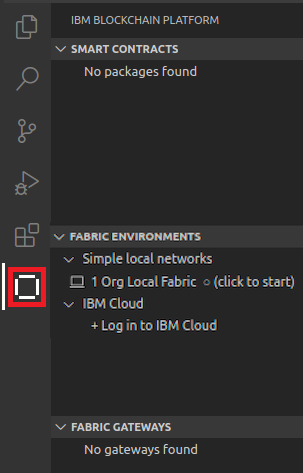
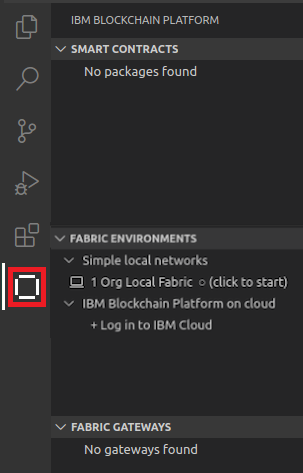
update ibm cloud group name and behaviour

Changed region(s): [[0.1782, 0.4736, 0.9802, 0.7104], [0.2079, 0.6216, 0.2376, 0.6512]]

diff --git a/packages/blockchain-extension/test/explorer/environmentExplorer.test.ts b/packages/blockchain-extension/test/explorer/environmentExplorer.test.ts
@@ -107,8 +107,8 @@ describe('environmentExplorer', () => {
                 allChildren[0].label.should.equal('Simple local networks');
                 allChildren[0].tooltip.should.equal('Simple local networks');
                 allChildren[0].contextValue.should.equal('blockchain-environment-group-item');
-                allChildren[1].label.should.equal('IBM Cloud');
-                allChildren[1].tooltip.should.equal('IBM Cloud');
+                allChildren[1].label.should.equal('IBM Blockchain Platform on cloud');
+                allChildren[1].tooltip.should.equal('IBM Blockchain Platform on cloud');
                 allChildren[1].contextValue.should.equal('blockchain-environment-group-item');
 
                 const localEnvItems: BlockchainTreeItem[] = await blockchainRuntimeExplorerProvider.getChildren(allChildren[0]);
@@ -149,8 +149,8 @@ describe('environmentExplorer', () => {
                 const allChildren: BlockchainTreeItem[] = await blockchainRuntimeExplorerProvider.getChildren();
 
                 allChildren.length.should.equal(1);
-                allChildren[0].label.should.equal('IBM Cloud');
-                allChildren[0].tooltip.should.equal('IBM Cloud');
+                allChildren[0].label.should.equal('IBM Blockchain Platform on cloud');
+                allChildren[0].tooltip.should.equal('IBM Blockchain Platform on cloud');
                 allChildren[0].contextValue.should.equal('blockchain-environment-group-item');
 
                 const ibmCloudItems: Array<BlockchainTreeItem> = await blockchainRuntimeExplorerProvider.getChildren(allChildren[0]);
@@ -191,14 +191,23 @@ describe('environmentExplorer', () => {
                 const allChildren: BlockchainTreeItem[] = await blockchainRuntimeExplorerProvider.getChildren();
 
                 allChildren.length.should.equal(2);
-                allChildren[0].label.should.equal('Other networks');
-                allChildren[0].tooltip.should.equal('Other networks');
+                allChildren[0].label.should.equal('IBM Blockchain Platform on cloud');
+                allChildren[0].tooltip.should.equal('IBM Blockchain Platform on cloud');
                 allChildren[0].contextValue.should.equal('blockchain-environment-group-item');
-                allChildren[1].label.should.equal('IBM Cloud');
-                allChildren[1].tooltip.should.equal('IBM Cloud');
+                allChildren[1].label.should.equal('Other networks');
+                allChildren[1].tooltip.should.equal('Other networks');
                 allChildren[1].contextValue.should.equal('blockchain-environment-group-item');
 
-                const otherItems: Array<BlockchainTreeItem> = await blockchainRuntimeExplorerProvider.getChildren(allChildren[0]);
+                const ibmCloudItems: BlockchainTreeItem[] = await blockchainRuntimeExplorerProvider.getChildren(allChildren[0]);
+                ibmCloudItems.length.should.equal(1);
+                ibmCloudItems[0].label.should.equal(`+ Log in to IBM Cloud`);
+                ibmCloudItems[0].command.should.deep.equal({
+                    command: ExtensionCommands.LOG_IN_AND_DISCOVER,
+                    title: '',
+                    arguments: []
+                });
+
+                const otherItems: Array<BlockchainTreeItem> = await blockchainRuntimeExplorerProvider.getChildren(allChildren[1]);
                 otherItems.length.should.equal(3);
                 otherItems[0].label.should.equal(`${managedAnsible.name}  ○ (click to start)`);
                 otherItems[0].tooltip.should.equal(`Creates a local development runtime using Hyperledger Fabric Docker images`);
@@ -209,15 +218,6 @@ describe('environmentExplorer', () => {
                 otherItems[2].label.should.equal(otherEnvTwo.name);
                 otherItems[2].tooltip.should.equal(otherEnvTwo.name);
                 otherItems[2].contextValue.should.equal('blockchain-environment-item');
-
-                const ibmCloudItems: BlockchainTreeItem[] = await blockchainRuntimeExplorerProvider.getChildren(allChildren[1]);
-                ibmCloudItems.length.should.equal(1);
-                ibmCloudItems[0].label.should.equal(`+ Log in to IBM Cloud`);
-                ibmCloudItems[0].command.should.deep.equal({
-                    command: ExtensionCommands.LOG_IN_AND_DISCOVER,
-                    title: '',
-                    arguments: []
-                });
 
                 loggedInStub.should.have.been.calledTwice;
                 anyResourcesStub.should.not.have.been.called;
@@ -276,8 +276,8 @@ describe('environmentExplorer', () => {
                 allChildren[0].label.should.equal('Simple local networks');
                 allChildren[0].tooltip.should.equal('Simple local networks');
                 allChildren[0].contextValue.should.equal('blockchain-environment-group-item');
-                allChildren[1].label.should.equal('IBM Cloud');
-                allChildren[1].tooltip.should.equal('IBM Cloud');
+                allChildren[1].label.should.equal('IBM Blockchain Platform on cloud');
+                allChildren[1].tooltip.should.equal('IBM Blockchain Platform on cloud');
                 allChildren[1].contextValue.should.equal('blockchain-environment-group-item');
                 allChildren[2].label.should.equal('Other networks');
                 allChildren[2].tooltip.should.equal('Other networks');
@@ -370,7 +370,7 @@ describe('environmentExplorer', () => {
                     arguments: []
                 });
 
-                allChildren[1].label.should.equal('IBM Cloud');
+                allChildren[1].label.should.equal('IBM Blockchain Platform on cloud');
                 const ibmCloudItems: BlockchainTreeItem[] = await blockchainRuntimeExplorerProvider.getChildren(allChildren[1]);
                 ibmCloudItems.length.should.equal(1);
                 ibmCloudItems[0].label.should.equal(`+ Log in to IBM Cloud`);
@@ -401,7 +401,7 @@ describe('environmentExplorer', () => {
                     arguments: []
                 });
 
-                allChildren[1].label.should.equal('IBM Cloud');
+                allChildren[1].label.should.equal('IBM Blockchain Platform on cloud');
                 const ibmCloudItems: BlockchainTreeItem[] = await blockchainRuntimeExplorerProvider.getChildren(allChildren[1]);
                 ibmCloudItems.length.should.equal(1);
                 ibmCloudItems[0].label.should.equal(`+ create new instance`);
@@ -412,6 +412,38 @@ describe('environmentExplorer', () => {
                 });
                 loggedInStub.should.have.been.calledTwice;
                 anyResourcesStub.should.have.been.calledTwice;
+            });
+
+            it('should show log in item if there are ops tools environments but no saas environments', async () => {
+                const opsToolsEnv: FabricEnvironmentRegistryEntry = new FabricEnvironmentRegistryEntry();
+                opsToolsEnv.name = 'opsToolsEnv';
+                opsToolsEnv.environmentType = EnvironmentType.OPS_TOOLS_ENVIRONMENT;
+
+                await FabricEnvironmentRegistry.instance().clear();
+                await FabricEnvironmentRegistry.instance().add(opsToolsEnv);
+
+                const loggedInStub: sinon.SinonStub = mySandBox.stub(ExtensionsInteractionUtil, 'cloudAccountIsLoggedIn').resolves(false);
+                const anyResourcesStub: sinon.SinonStub = mySandBox.stub(ExtensionsInteractionUtil, 'cloudAccountAnyIbpResources').resolves(false);
+
+                const blockchainRuntimeExplorerProvider: BlockchainEnvironmentExplorerProvider = ExtensionUtil.getBlockchainEnvironmentExplorerProvider();
+                const allChildren: BlockchainTreeItem[] = await blockchainRuntimeExplorerProvider.getChildren();
+
+                allChildren.length.should.equal(1);
+                allChildren[0].label.should.equal('IBM Blockchain Platform on cloud');
+                const ibmCloudItems: BlockchainTreeItem[] = await blockchainRuntimeExplorerProvider.getChildren(allChildren[0]);
+                ibmCloudItems.length.should.equal(2);
+                ibmCloudItems[0].label.should.equal(`+ Log in to IBM Cloud`);
+                ibmCloudItems[0].command.should.deep.equal({
+                    command: ExtensionCommands.LOG_IN_AND_DISCOVER,
+                    title: '',
+                    arguments: []
+                });
+                ibmCloudItems[1].label.should.equal(opsToolsEnv.name);
+                ibmCloudItems[1].tooltip.should.equal(opsToolsEnv.name);
+                ibmCloudItems[1].contextValue.should.equal('blockchain-environment-item');
+
+                loggedInStub.should.have.been.calledOnce;
+                anyResourcesStub.should.not.have.been.called;
             });
 
             it(`should try to automatically add discovered IBP instances`, async () => {
@@ -441,7 +473,6 @@ describe('environmentExplorer', () => {
 
             it(`should try to automatically add discovered IBP instances when other environments have already been added`, async () => {
                 await vscode.workspace.getConfiguration().update(SettingConfigurations.DISCOVER_SAAS_ENVS, true, vscode.ConfigurationTarget.Global);
-                await FabricEnvironmentRegistry.instance().clear();
 
                 const registryEntry: FabricEnvironmentRegistryEntry = new FabricEnvironmentRegistryEntry();
                 registryEntry.name = 'myFabric';
@@ -457,17 +488,40 @@ describe('environmentExplorer', () => {
                 const allChildren: BlockchainTreeItem[] = await blockchainRuntimeExplorerProvider.getChildren();
 
                 allChildren.length.should.equal(1);
-                allChildren[0].label.should.equal(`Other networks`);
-                allChildren[0].tooltip.should.equal('Other networks');
-                allChildren[0].contextValue.should.equal('blockchain-environment-group-item');
+                const otherGroupItem: EnvironmentGroupTreeItem = allChildren[0] as EnvironmentGroupTreeItem;
+                otherGroupItem.label.should.equal('Other networks');
+                otherGroupItem.environments.should.deep.equal([registryEntry]);
 
-                const groupChildren: BlockchainTreeItem[] = await blockchainRuntimeExplorerProvider.getChildren(allChildren[0]);
-                groupChildren[0].label.should.equal(registryEntry.name);
-                groupChildren[0].tooltip.should.equal(registryEntry.name);
-                groupChildren[0].contextValue.should.equal('blockchain-environment-item');
-
+                await blockchainRuntimeExplorerProvider.getChildren(otherGroupItem);
                 executeCommandStub.should.have.been.calledWith(ExtensionCommands.LOG_IN_AND_DISCOVER);
+                loggedInStub.should.have.been.calledOnce;
+                anyResourcesStub.should.have.been.calledOnce;
+            });
 
+            it('should try to automatically add discovered IBP instances when there are ops tools environments but no saas environments', async () => {
+                await vscode.workspace.getConfiguration().update(SettingConfigurations.DISCOVER_SAAS_ENVS, true, vscode.ConfigurationTarget.Global);
+
+                const opsToolsEnv: FabricEnvironmentRegistryEntry = new FabricEnvironmentRegistryEntry();
+                opsToolsEnv.name = 'opsToolsEnv';
+                opsToolsEnv.environmentType = EnvironmentType.OPS_TOOLS_ENVIRONMENT;
+
+                await FabricEnvironmentRegistry.instance().clear();
+                await FabricEnvironmentRegistry.instance().add(opsToolsEnv);
+
+                executeCommandStub.withArgs(ExtensionCommands.LOG_IN_AND_DISCOVER).resolves();
+                const loggedInStub: sinon.SinonStub = mySandBox.stub(ExtensionsInteractionUtil, 'cloudAccountIsLoggedIn').resolves(true);
+                const anyResourcesStub: sinon.SinonStub = mySandBox.stub(ExtensionsInteractionUtil, 'cloudAccountAnyIbpResources').resolves(true);
+
+                const blockchainRuntimeExplorerProvider: BlockchainEnvironmentExplorerProvider = ExtensionUtil.getBlockchainEnvironmentExplorerProvider();
+                const allChildren: BlockchainTreeItem[] = await blockchainRuntimeExplorerProvider.getChildren();
+
+                allChildren.length.should.equal(1);
+                const cloudGroupItem: EnvironmentGroupTreeItem = allChildren[0] as EnvironmentGroupTreeItem;
+                cloudGroupItem.label.should.equal('IBM Blockchain Platform on cloud');
+                cloudGroupItem.environments.should.deep.equal([opsToolsEnv]);
+
+                await blockchainRuntimeExplorerProvider.getChildren(cloudGroupItem);
+                executeCommandStub.should.have.been.calledWith(ExtensionCommands.LOG_IN_AND_DISCOVER);
                 loggedInStub.should.have.been.calledOnce;
                 anyResourcesStub.should.have.been.calledOnce;
             });

diff --git a/packages/blockchain-extension/extension/explorer/environmentExplorer.ts b/packages/blockchain-extension/extension/explorer/environmentExplorer.ts
@@ -221,14 +221,14 @@ export class BlockchainEnvironmentExplorerProvider implements BlockchainExplorer
         const environmentEntries: FabricEnvironmentRegistryEntry[] = await FabricEnvironmentRegistry.instance().getAll();
 
         const environmentGroups: Array<FabricEnvironmentRegistryEntry[]> = [];
-        const ibmCloudEnvironments: Array<FabricEnvironmentRegistryEntry> = [];
+        const cloudEnvironments: Array<FabricEnvironmentRegistryEntry> = [];
         const otherEnvironments: Array<FabricEnvironmentRegistryEntry> = [];
         for (const environment of environmentEntries) {
             if (environmentGroups.length === 0) {
                 if (environment.environmentType === EnvironmentType.LOCAL_ENVIRONMENT) {
                     environmentGroups.push([environment]);
                 } else if (environment.environmentType === EnvironmentType.OPS_TOOLS_ENVIRONMENT || environment.environmentType === EnvironmentType.SAAS_OPS_TOOLS_ENVIRONMENT) {
-                    ibmCloudEnvironments.push(environment);
+                    cloudEnvironments.push(environment);
                 } else {
                     otherEnvironments.push(environment);
                 }
@@ -245,7 +245,7 @@ export class BlockchainEnvironmentExplorerProvider implements BlockchainExplorer
                 environmentGroups[groupIndex].push(environment);
             } else { // if there's a local env that group will have been created first, so check for other env types
                 if (environment.environmentType === EnvironmentType.OPS_TOOLS_ENVIRONMENT || environment.environmentType === EnvironmentType.SAAS_OPS_TOOLS_ENVIRONMENT) {
-                    ibmCloudEnvironments.push(environment);
+                    cloudEnvironments.push(environment);
                 } else {
                     // group environments that aren't local or opstools
                     otherEnvironments.push(environment);
@@ -253,8 +253,8 @@ export class BlockchainEnvironmentExplorerProvider implements BlockchainExplorer
             }
         }
 
-        if (ibmCloudEnvironments.length > 0) {
-            environmentGroups.push(ibmCloudEnvironments);
+        if (cloudEnvironments.length > 0) {
+            environmentGroups.push(cloudEnvironments);
         }
 
         if (otherEnvironments.length > 0) {
@@ -271,7 +271,7 @@ export class BlockchainEnvironmentExplorerProvider implements BlockchainExplorer
             tree.push(new TextTreeItem(this, '+ add local or remote environment', command));
 
             // if there are no environments at all we should still show the option to log in to IBM Cloud
-            const treeItem: TextTreeItem = await this.getIBMCloudInteractionItem(true);
+            const treeItem: EnvironmentGroupTreeItem = await this.getIBMCloudInteractionItem(true) as EnvironmentGroupTreeItem;
             if (treeItem) {
                 tree.push(treeItem);
             }
@@ -281,16 +281,21 @@ export class BlockchainEnvironmentExplorerProvider implements BlockchainExplorer
                 if (group[0].environmentType === EnvironmentType.LOCAL_ENVIRONMENT) {
                     groupName = 'Simple local networks';
                 } else if (group[0].environmentType === EnvironmentType.OPS_TOOLS_ENVIRONMENT || group[0].environmentType === EnvironmentType.SAAS_OPS_TOOLS_ENVIRONMENT) {
-                    groupName = 'IBM Cloud';
+                    groupName = 'IBM Blockchain Platform on cloud';
                 } else {
                     groupName = 'Other networks';
                 }
                 tree.push(new EnvironmentGroupTreeItem(this, groupName, group, vscode.TreeItemCollapsibleState.Expanded));
             }
-            if (!tree.some((treeItem: BlockchainTreeItem) => treeItem.label === 'IBM Cloud' )) {
-                const treeItem: TextTreeItem = await this.getIBMCloudInteractionItem(true);
+            if (!tree.some((treeItem: BlockchainTreeItem) => treeItem.label === 'IBM Blockchain Platform on cloud' )) {
+                const treeItem: EnvironmentGroupTreeItem = await this.getIBMCloudInteractionItem(true) as EnvironmentGroupTreeItem;
                 if (treeItem) {
                     tree.push(treeItem);
+                    tree.sort((a: EnvironmentGroupTreeItem, b: EnvironmentGroupTreeItem): number => {
+                        if (a.label !== 'Simple local networks' && b.label !== 'Simple local networks') {
+                            return a.label.localeCompare(b.label);
+                        }
+                    });
                 }
             }
         }
@@ -305,8 +310,18 @@ export class BlockchainEnvironmentExplorerProvider implements BlockchainExplorer
             const tree: Array<BlockchainTreeItem> = [];
 
             if (environments.length === 0) {
-                tree.push(await this.getIBMCloudInteractionItem(false));
+                tree.push(await this.getIBMCloudInteractionItem(false) as TextTreeItem);
             } else {
+                // if there are no saas environments in the cloud group we should add the log in tree item
+                if (environments[0].environmentType === EnvironmentType.OPS_TOOLS_ENVIRONMENT) {
+                    if (!environments.some((environment: FabricEnvironmentRegistryEntry) => environment.environmentType === EnvironmentType.SAAS_OPS_TOOLS_ENVIRONMENT)) {
+                        const treeItem: TextTreeItem = await this.getIBMCloudInteractionItem(false) as TextTreeItem;
+                        if (treeItem) {
+                            tree.push(treeItem);
+                        }
+                    }
+                }
+
                 for (const environment of environments) {
                     if (environment.managedRuntime) {
                         let runtime: LocalEnvironment | ManagedAnsibleEnvironment;
@@ -369,11 +384,11 @@ export class BlockchainEnvironmentExplorerProvider implements BlockchainExplorer
         }
     }
 
-    private async getIBMCloudInteractionItem(returnGroupItem: boolean): Promise<TextTreeItem> {
+    private async getIBMCloudInteractionItem(returnGroupItem: boolean): Promise<BlockchainTreeItem> {
         const isLoggedIn: boolean = await ExtensionsInteractionUtil.cloudAccountIsLoggedIn();
         if ( !isLoggedIn ) {
             if (returnGroupItem) {
-                return new EnvironmentGroupTreeItem(this, 'IBM Cloud', [], vscode.TreeItemCollapsibleState.Expanded);
+                return new EnvironmentGroupTreeItem(this, 'IBM Blockchain Platform on cloud', [], vscode.TreeItemCollapsibleState.Expanded);
             } else {
                 const command: vscode.Command = {
                     command: ExtensionCommands.LOG_IN_AND_DISCOVER,
@@ -393,7 +408,7 @@ export class BlockchainEnvironmentExplorerProvider implements BlockchainExplorer
                 }
             } else {
                 if (returnGroupItem) {
-                    return new EnvironmentGroupTreeItem(this, 'IBM Cloud', [], vscode.TreeItemCollapsibleState.Expanded);
+                    return new EnvironmentGroupTreeItem(this, 'IBM Blockchain Platform on cloud', [], vscode.TreeItemCollapsibleState.Expanded);
                 } else {
                     const command: vscode.Command = {
                         command: ExtensionCommands.OPEN_NEW_INSTANCE_LINK,

diff --git a/packages/blockchain-extension/test/commands/deleteEnvironmentCommand.test.ts b/packages/blockchain-extension/test/commands/deleteEnvironmentCommand.test.ts
@@ -167,7 +167,7 @@ describe('DeleteEnvironmentCommand', () => {
             const blockchainEnvironmentExplorerProvider: BlockchainEnvironmentExplorerProvider = ExtensionUtil.getBlockchainEnvironmentExplorerProvider();
 
             const allChildren: Array<BlockchainTreeItem> = await blockchainEnvironmentExplorerProvider.getChildren();
-            const groupChildren: Array<BlockchainTreeItem> = await blockchainEnvironmentExplorerProvider.getChildren(allChildren[1]);
+            const groupChildren: Array<BlockchainTreeItem> = await blockchainEnvironmentExplorerProvider.getChildren(allChildren[2]);
 
             const environmentToDelete: BlockchainTreeItem = groupChildren[0];
             await vscode.commands.executeCommand(ExtensionCommands.DELETE_ENVIRONMENT_SHORT, environmentToDelete);
@@ -622,7 +622,7 @@ describe('DeleteEnvironmentCommand', () => {
             const blockchainEnvironmentExplorerProvider: BlockchainEnvironmentExplorerProvider = ExtensionUtil.getBlockchainEnvironmentExplorerProvider();
 
             const allChildren: Array<BlockchainTreeItem> = await blockchainEnvironmentExplorerProvider.getChildren();
-            const groupChildren: Array<BlockchainTreeItem> = await blockchainEnvironmentExplorerProvider.getChildren(allChildren[1]);
+            const groupChildren: Array<BlockchainTreeItem> = await blockchainEnvironmentExplorerProvider.getChildren(allChildren[2]);
             const environmentToDelete: BlockchainTreeItem = groupChildren[2];
 
             environmentToDelete.should.be.an.instanceOf(RuntimeTreeItem);

diff --git a/packages/blockchain-extension/test/commands/environmentConnectCommand.test.ts b/packages/blockchain-extension/test/commands/environmentConnectCommand.test.ts
@@ -220,7 +220,7 @@ describe('EnvironmentConnectCommand', () => {
 
                 const blockchainEnvironmentExplorerProvider: BlockchainEnvironmentExplorerProvider = ExtensionUtil.getBlockchainEnvironmentExplorerProvider();
                 const allChildren: Array<BlockchainTreeItem> = await blockchainEnvironmentExplorerProvider.getChildren();
-                const groupChildren: Array<BlockchainTreeItem> = await blockchainEnvironmentExplorerProvider.getChildren(allChildren[1]);
+                const groupChildren: Array<BlockchainTreeItem> = await blockchainEnvironmentExplorerProvider.getChildren(allChildren[2]);
 
                 const myConnectionItem: FabricEnvironmentTreeItem = groupChildren[0] as FabricEnvironmentTreeItem;
 

diff --git a/packages/blockchain-extension/cucumber/steps/fabricEnvironment.steps.ts b/packages/blockchain-extension/cucumber/steps/fabricEnvironment.steps.ts
@@ -124,7 +124,7 @@ module.exports = function(): any {
     this.Given('there are no IBM Cloud environments', this.timeout, async () => {
         const environments: FabricEnvironmentRegistryEntry[] = await FabricEnvironmentRegistry.instance().getAll();
         for (const env of environments) {
-            if (env.environmentType === EnvironmentType.OPS_TOOLS_ENVIRONMENT || env.environmentType === EnvironmentType.SAAS_OPS_TOOLS_ENVIRONMENT) {
+            if (env.environmentType === EnvironmentType.SAAS_OPS_TOOLS_ENVIRONMENT) {
                 await this.fabricEnvironmentHelper.deleteEnvironment(env.name);
             }
         }
